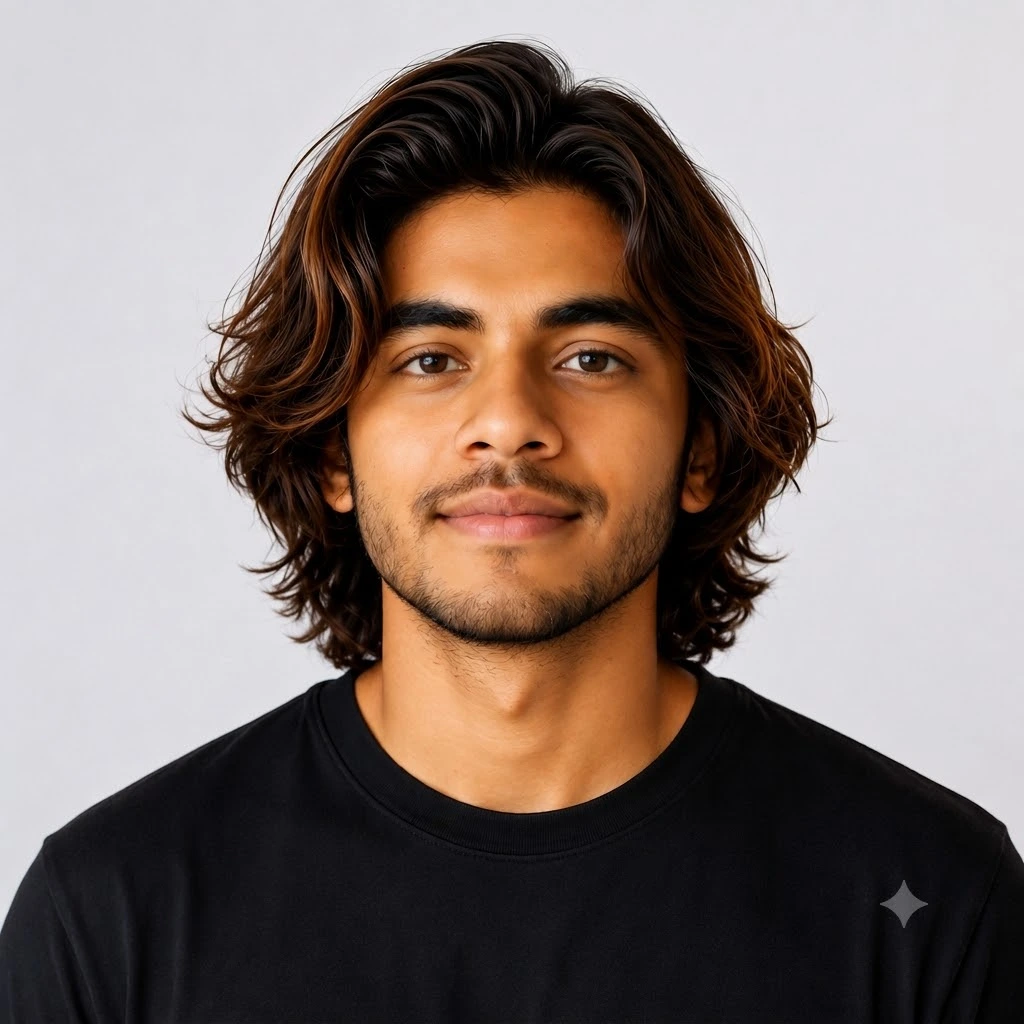
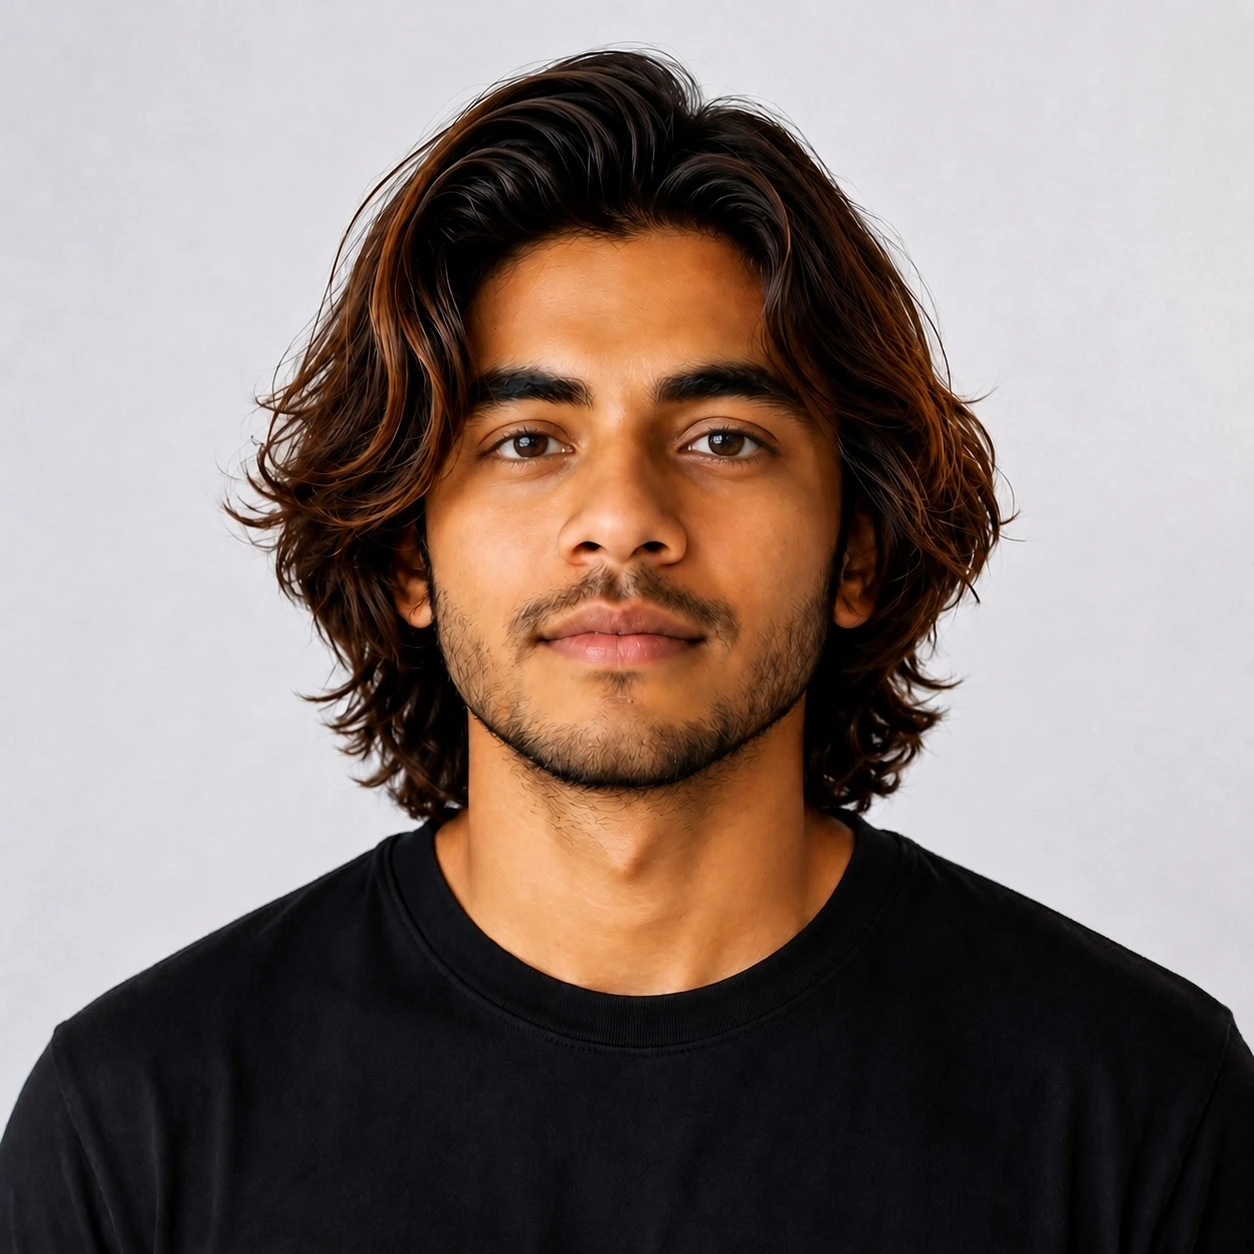
Fix founder portrait rendering

diff --git a/src/index.css b/src/index.css
@@ -10558,13 +10558,17 @@ a:focus-visible {
 
 .about-v6-portrait {
   position: relative;
-  z-index: 2;
-  width: min(70%, 350px);
-  aspect-ratio: 0.82;
+  z-index: 5;
+  display: block;
+  width: min(78%, 410px);
+  min-width: 260px;
+  aspect-ratio: 0.84;
   margin: 0;
   overflow: hidden;
   border: 1px solid rgba(155, 235, 249, 0.32);
   background: #0a1016;
+  opacity: 1;
+  visibility: visible;
   box-shadow:
     0 34px 80px rgba(0, 0, 0, 0.42),
     0 0 0 8px rgba(87, 207, 239, 0.025),
@@ -10583,8 +10587,8 @@ a:focus-visible {
 
 .about-v6-portrait::before {
   background:
-    linear-gradient(180deg, rgba(4, 10, 15, 0.02) 45%, rgba(4, 10, 15, 0.72) 100%),
-    linear-gradient(112deg, rgba(97, 224, 248, 0.08), transparent 36%, rgba(83, 92, 255, 0.06));
+    linear-gradient(180deg, transparent 65%, rgba(4, 10, 15, 0.58) 100%),
+    linear-gradient(112deg, rgba(97, 224, 248, 0.045), transparent 38%, rgba(83, 92, 255, 0.035));
 }
 
 .about-v6-portrait::after {
@@ -10598,9 +10602,11 @@ a:focus-visible {
   width: 100%;
   height: 100%;
   object-fit: cover;
-  object-position: center 43%;
-  filter: saturate(0.94) contrast(1.025);
-  transform: scale(1.015);
+  object-position: center 42%;
+  opacity: 1;
+  visibility: visible;
+  filter: saturate(0.96) contrast(1.015);
+  transform: none;
 }
 
 .about-v6-portrait-id {
@@ -10624,26 +10630,6 @@ a:focus-visible {
   color: #9cefff;
   font-size: 0.43rem;
   font-weight: 560;
-}
-
-.about-v6-monogram {
-  position: absolute;
-  right: 3%;
-  bottom: 17%;
-  z-index: 4;
-  color: transparent;
-  background: linear-gradient(145deg, rgba(183, 246, 255, 0.98), rgba(58, 192, 235, 0.72) 52%, rgba(88, 108, 255, 0.72));
-  background-clip: text;
-  -webkit-background-clip: text;
-  font-size: clamp(3.2rem, 5.4vw, 5.3rem);
-  font-weight: 640;
-  letter-spacing: -0.12em;
-  line-height: 0.78;
-  text-indent: -0.08em;
-  text-shadow:
-    0 0 34px rgba(55, 192, 240, 0.25),
-    0 8px 26px rgba(0, 0, 0, 0.38);
-  transform: translateZ(62px);
 }
 
 .about-v6-discipline {
@@ -11053,7 +11039,7 @@ a:focus-visible {
   }
 
   .about-v6-visual {
-    min-height: 390px;
+    min-height: 430px;
   }
 
   .about-v6-visual-meta {
@@ -11077,7 +11063,9 @@ a:focus-visible {
   }
 
   .about-v6-portrait {
-    width: min(72%, 220px);
+    width: min(82%, 255px);
+    min-width: 0;
+    aspect-ratio: 0.9;
     box-shadow:
       0 24px 54px rgba(0, 0, 0, 0.38),
       0 0 0 6px rgba(87, 207, 239, 0.025),
@@ -11094,13 +11082,6 @@ a:focus-visible {
 
   .about-v6-portrait-id strong {
     font-size: 0.32rem;
-  }
-
-  .about-v6-monogram {
-    right: 2%;
-    bottom: 17%;
-    font-size: clamp(2.7rem, 14vw, 3.8rem);
-    transform: none;
   }
 
   .about-v6-visual-status {

diff --git a/src/sections/About.tsx b/src/sections/About.tsx
@@ -91,7 +91,7 @@ export default function About() {
           y: 70,
           scale: 0.93,
           clipPath: "inset(8% 6% 8% 6%)",
-          opacity: 0.2,
+          opacity: 0.72,
         },
         {
           y: 0,
@@ -242,8 +242,8 @@ export default function About() {
               <img
                 src="/images/md-rashed-profile.webp"
                 alt="Portrait of Md Rashed, founder of Rashed Digital Studio"
-                width="1024"
-                height="1024"
+                width="1254"
+                height="1254"
                 loading="lazy"
                 decoding="async"
                 draggable="false"
@@ -254,7 +254,6 @@ export default function About() {
               </figcaption>
             </figure>
 
-            <strong className="about-v6-monogram" aria-hidden="true">MR</strong>
             <span className="about-v6-discipline" aria-hidden="true">DESIGN / FRONT-END</span>
             <span className="about-v6-name-rail" aria-hidden="true">RASHED DIGITAL STUDIO</span>
           </div>

diff --git a/src/theme.css b/src/theme.css
@@ -667,8 +667,8 @@ html.theme-transitioning .site-footer-v5 {
 
 [data-theme="light"] .about-v6-portrait::before {
   background:
-    linear-gradient(180deg, transparent 55%, rgba(12, 30, 38, 0.56) 100%),
-    linear-gradient(112deg, rgba(44, 173, 214, 0.045), transparent 38%, rgba(75, 83, 220, 0.035));
+    linear-gradient(180deg, transparent 68%, rgba(12, 30, 38, 0.5) 100%),
+    linear-gradient(112deg, rgba(44, 173, 214, 0.03), transparent 40%, rgba(75, 83, 220, 0.025));
 }
 
 [data-theme="light"] .about-v6-portrait::after {
@@ -699,11 +699,6 @@ html.theme-transitioning .site-footer-v5 {
 [data-theme="light"] .about-v6-focus-list > span,
 [data-theme="light"] .about-v6-principle > div > span {
   color: #546870;
-}
-
-[data-theme="light"] .about-v6-monogram {
-  color: #173d51;
-  text-shadow: 0 0 35px rgba(36, 139, 183, 0.15);
 }
 
 [data-theme="light"] .about-v6-actions .secondary-cta {
